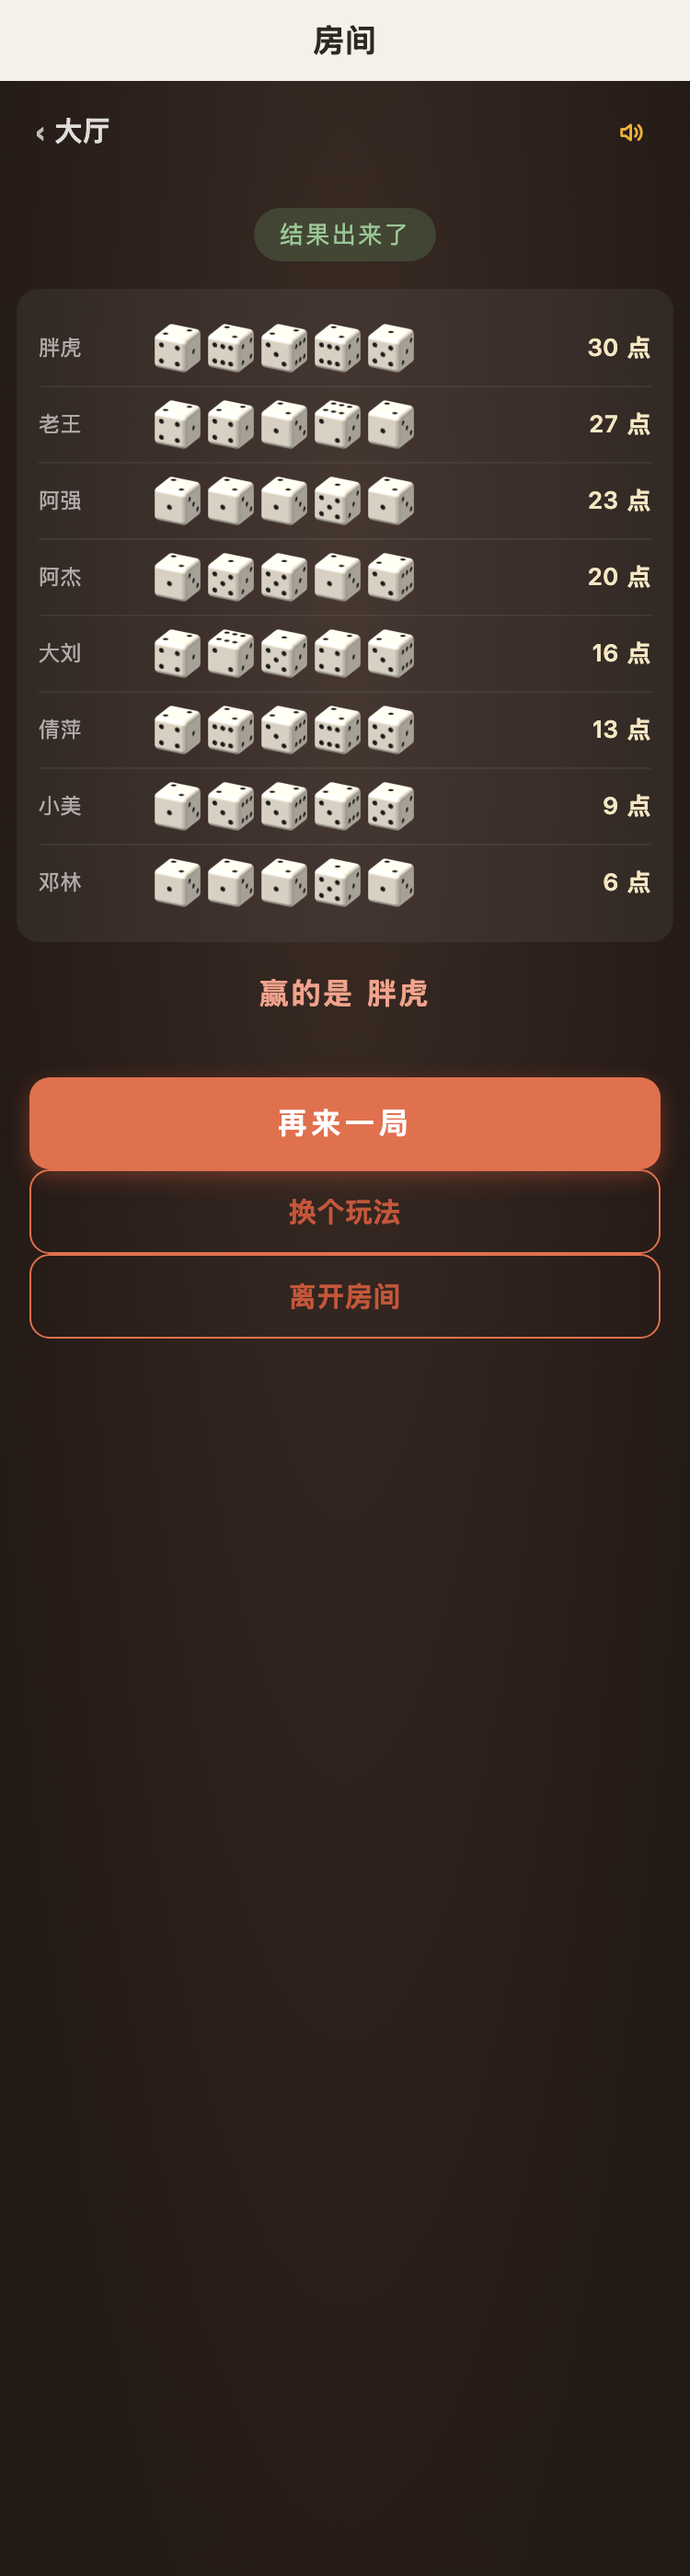
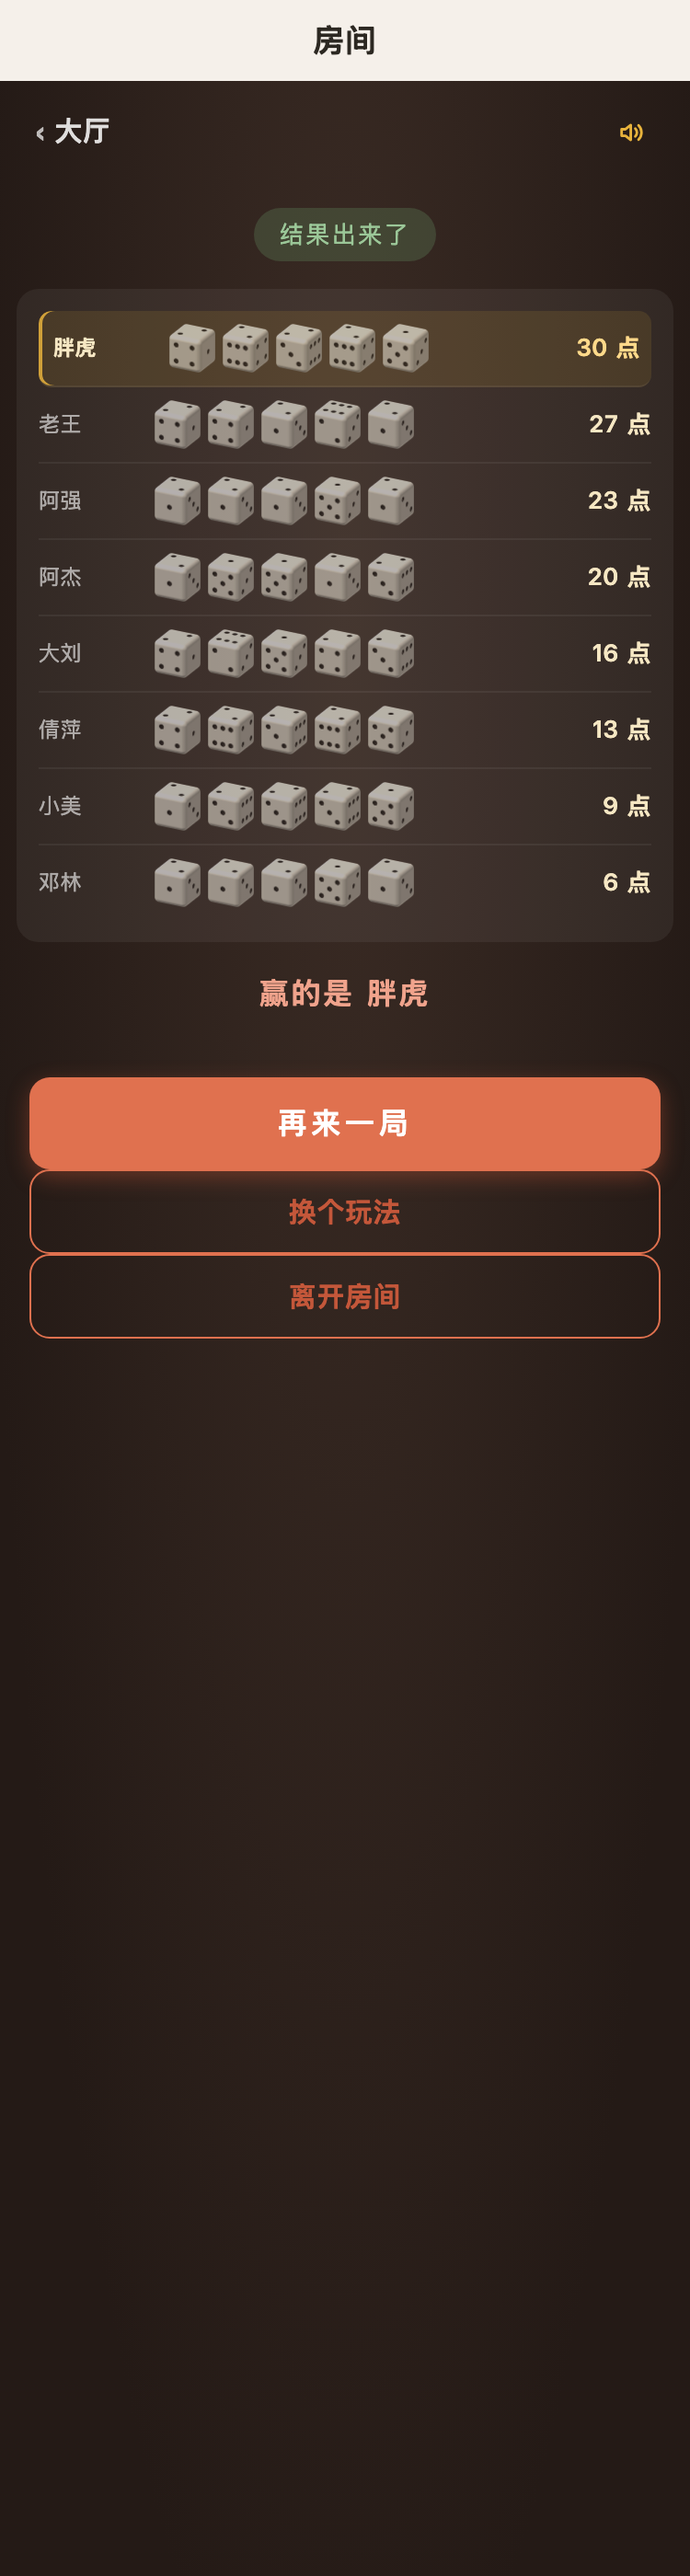
feat(3.9.16): 比大小结算给赢家那行加金色底
## 原来只有一行字说"赢的是胖虎"

八个人的骰子墙里，眼睛要自己从 8 行里找出 30 点那行。现在赢家那行：
金色底 + 左侧金色竖条 + 名字加粗 + 点数变暖色。

并列第一时会有多行同时高亮 —— 这是对的，不该只让一个人亮。

## 一个 wxml 的坑

外层循环原来用默认的 `index`，而内层的骰子循环也用自己的 `index` ——
**同名会互相覆盖**。给外层加 `wx:for-index="ri"` 区分开。
（这次没用上 ri，但留着防止以后想用而踩坑。）

Changed region(s): [[0.2147, 0.1243, 0.644, 0.3729], [0.828, 0.1243, 0.9507, 0.1554], [0.0307, 0.1243, 0.1533, 0.1554]]

diff --git a/outputs/ui/room-dice8.html b/outputs/ui/room-dice8.html
@@ -1441,10 +1441,17 @@ view, text, button, input, textarea { box-sizing: border-box }
 .pkr-row:last-child { border-bottom: none }
 .pkr-row.out { opacity: .5 }
 .pkr-n { flex: 1; font-size: 12.5px; color: rgba(255,255,255,.85) }
+
 .pkr-c {
-  font-size: 11px; font-weight: 700; color: #2C2822;
-  background: #FFFDF9; border-radius: 3px; padding: 1.5px 4px;
+  display: flex; align-items: center; justify-content: center;
+  width: 30px; height: 42px;
+  flex: none;
+  font-size: 12px; font-weight: 700; color: #2C2822;
+  background: #FFFDF9; border-radius: 4px;
+  box-shadow: 0 1px 3px rgba(0, 0, 0, .22);
+  letter-spacing: -0.5px;
 }
+.pkr-c.pk-red { color: #C4432F }
 
 
 @keyframes slamIn {
@@ -1629,6 +1636,56 @@ view, text, button, input, textarea { box-sizing: border-box }
   animation: slamIn .42s cubic-bezier(.2,.9,.3,1.18) both;
 }
 
+
+.uw-cmp {
+  margin-top: 8px;
+  padding: 7px 9px;
+  border: 1px dashed rgba(160, 130, 210, .45);
+  border-radius: 6px;
+  font-size: 11.5px;
+  color: rgba(200, 180, 235, .95);
+}
+
+
+.pk-hint {
+  text-align: center;
+  font-size: 11.5px;
+  color: rgba(232, 179, 60, .85);
+  letter-spacing: 0.5px;
+  margin: -5px 0 var(--gap-2);
+}
+
+
+.pk-pcups {
+  font-size: 9.5px;
+  color: rgba(150, 170, 190, .8);
+  margin-right: 4px;
+}
+
+
+.revealbox .die-img {
+  opacity: .62;
+  transition: opacity .18s ease-out;
+}
+.revealbox .die-img.hit {
+  opacity: 1;
+  box-shadow: 0 0 0 2px rgba(232, 179, 60, .9), 0 2px 7px rgba(232, 179, 60, .35);
+  border-radius: 5px;
+  transform: scale(1.08);
+  transition: transform .18s ease-out, box-shadow .18s ease-out, opacity .18s ease-out;
+}
+
+
+.rv-row.win {
+  background: rgba(232, 179, 60, .12);
+  border-radius: 7px;
+  padding-left: 8px;
+  padding-right: 6px;
+  box-shadow: inset 2px 0 0 rgba(232, 179, 60, .85);
+}
+.rv-row.win .rv-name { color: #F6E7C3; font-weight: 700 }
+.rv-row.win .rv-total { color: #FFD98A }
+
 </style>
 </head><body>
 <!-- 小程序导航栏（简写近似） -->
@@ -1654,7 +1711,8 @@ view, text, button, input, textarea { box-sizing: border-box }
     <div class="center-box">
       <div class="over-tag ok">结果出来了</div>
       <div class="revealbox">
-        <div class="rv-row">
+        
+        <div class="rv-row win">
           <span class="rv-name">胖虎</span>
           <div class="dicebox mini">
             <img class="die-img" src="file:///Users/meihaoshidai/Downloads/邓林work/个人项目/小程序/miniprogram/images/dice/dice-4.png" data-mode="aspectFit" style="object-fit:contain;"><img class="die-img" src="file:///Users/meihaoshidai/Downloads/邓林work/个人项目/小程序/miniprogram/images/dice/dice-6.png" data-mode="aspectFit" style="object-fit:contain;"><img class="die-img" src="file:///Users/meihaoshidai/Downloads/邓林work/个人项目/小程序/miniprogram/images/dice/dice-3.png" data-mode="aspectFit" style="object-fit:contain;"><img class="die-img" src="file:///Users/meihaoshidai/Downloads/邓林work/个人项目/小程序/miniprogram/images/dice/dice-6.png" data-mode="aspectFit" style="object-fit:contain;"><img class="die-img" src="file:///Users/meihaoshidai/Downloads/邓林work/个人项目/小程序/miniprogram/images/dice/dice-5.png" data-mode="aspectFit" style="object-fit:contain;">
